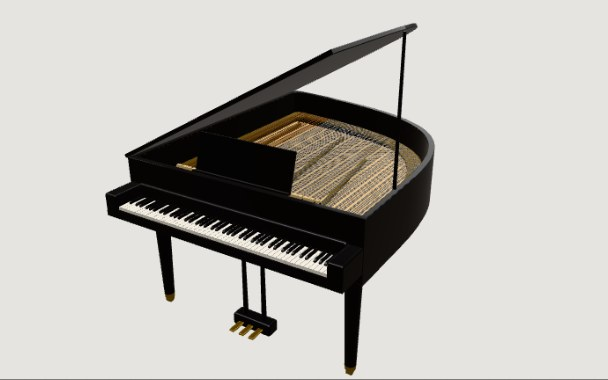
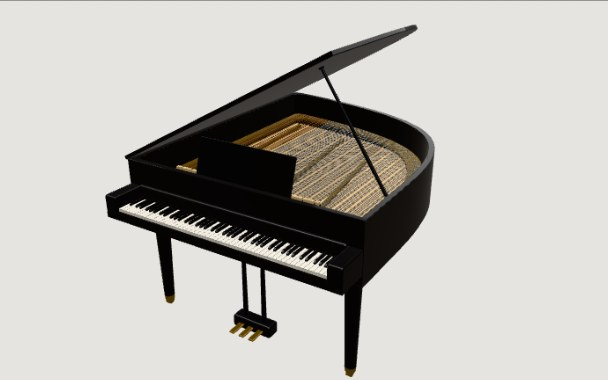
Grand Piano: clickable keys, prop stick meets the lid
Give the instanced meshes fixed bounds so raycasts can't be culled by
bounds computed before the instances were placed. Recompute where the
prop stick meets the tilted lid so it rests in a cup instead of floating,
seat it on a hinge block, and fold the music desk below the closed lid.

diff --git a/dimensions-ui/src/piano/Piano.jsx b/dimensions-ui/src/piano/Piano.jsx
@@ -91,25 +91,49 @@ const WHITE_W_KEY = 2.21
 const NO_DAMPER = KEYS.map((k) => k.midi > DAMPER_TOP)
 const naturalDecay = (midi) => Math.max(0.6, 6.5 - (midi - 21) * 0.065)
 
-// the prop stick, which follows the lid round so its tip stays under it
+// The prop stick, which follows the lid round so its tip stays under it.
+// Its tip sits in a cup CONTACT cm along the lid from the hinge (measured
+// along the tilted lid, so it's always on the lid however far it's open).
 const LID_OPEN = 0.5
 const HINGE_X = -HALF - 0.6
-const STICK = [HALF - 2.4, RIM_TOP - 0.8, -52] // pivot
-const STICK_TIP = 0.08
-const STICK_LEN = (RIM_TOP - STICK[1] + (STICK[0] - HINGE_X) * Math.tan(LID_OPEN)) / (Math.cos(STICK_TIP) + Math.sin(STICK_TIP) * Math.tan(LID_OPEN))
+const STICK = [HALF - 3.4, RIM_TOP - 1.1, -46] // pivot, on a hinge block inside the rim, so it folds under the lid
+const CONTACT = 122
+const STICK_LEN = Math.hypot(
+  STICK[0] - (HINGE_X + CONTACT * Math.cos(LID_OPEN)),
+  RIM_TOP + CONTACT * Math.sin(LID_OPEN) - STICK[1],
+)
 function stickAngle(lid) {
-  const lidY = (x) => RIM_TOP + (x - HINGE_X) * Math.tan(lid)
-  const f = (a) => STICK[1] + STICK_LEN * Math.cos(a) - lidY(STICK[0] - STICK_LEN * Math.sin(a))
-  if (f(0) <= 0) return 0
-  let lo = 0
-  let hi = Math.PI / 2
-  for (let i = 0; i < 30; i++) {
-    const m = (lo + hi) / 2
-    if (f(m) > 0) lo = m
-    else hi = m
+  // how far the stick's tip is above (+) or below (-) the lid at angle a
+  const f = (a) => STICK[1] + STICK_LEN * Math.cos(a) - (RIM_TOP + (STICK[0] - STICK_LEN * Math.sin(a) - HINGE_X) * Math.tan(lid))
+  // swing it up from folded flat until the tip meets the lid
+  const STEPS = 90
+  let prev = Math.PI / 2
+  let best = prev
+  let bestF = -Infinity
+  for (let i = 1; i <= STEPS; i++) {
+    const a = (Math.PI / 2) * (1 - i / STEPS)
+    const v = f(a)
+    if (v >= 0) {
+      let lo = a
+      let hi = prev
+      for (let k = 0; k < 24; k++) {
+        const m = (lo + hi) / 2
+        if (f(m) >= 0) lo = m
+        else hi = m
+      }
+      return hi
+    }
+    if (v > bestF) (bestF = v), (best = a)
+    prev = a
   }
-  return hi
+  // can't quite reach: as close as it gets
+  return best
 }
+// the cup on the lid's underside goes where the tip lands when it's open
+const CUP = (() => {
+  const a = stickAngle(LID_OPEN)
+  return [(STICK[0] - STICK_LEN * Math.sin(a) - HINGE_X) / Math.cos(LID_OPEN), 0]
+})()
 
 const DYN = [[16, 'ppp'], [33, 'pp'], [49, 'p'], [64, 'mp'], [80, 'mf'], [96, 'f'], [112, 'ff'], [128, 'fff']]
 export const dynamic = (v) => DYN.find(([m]) => v < m)[1]
@@ -274,6 +298,18 @@ const Piano = forwardRef(function Piano({ lacquerColor = '#0c0c0e', woodColor = 
 
   // static instances: strings and tuning pins
   const pinRef = useRef()
+  // Instanced parts move every frame, so three's cached bounds (worked out
+  // once, on the first raycast) can be stale; if the pointer was over the
+  // canvas before the first frame they'd say every key is at the origin and
+  // no click would ever land. Give them fixed bounds round the whole piano.
+  useEffect(() => {
+    const all = new THREE.Sphere(new THREE.Vector3(0, 70, -85), 190)
+    for (const r of [whiteRef, blackRef, headRef, shankRef, feltRef, dheadRef, stringRef, pinRef]) {
+      if (!r.current) continue
+      r.current.boundingSphere = all.clone()
+      r.current.boundingBox = null
+    }
+  }, [])
   useEffect(() => {
     const m = new THREE.Object3D()
     const col = new THREE.Color()
@@ -571,7 +607,7 @@ const Piano = forwardRef(function Piano({ lacquerColor = '#0c0c0e', woodColor = 
       <instancedMesh ref={blackRef} args={[geo.black, mats.black, BLACKS.length]} frustumCulled={false} castShadow {...keyEvents(BLACKS)} />
 
       {/* music desk, pivoting on its bottom edge */}
-      <group ref={deskRef} position={[0, RIM_TOP - 1.6, -(CASE_FRONT + 6)]}>
+      <group ref={deskRef} position={[0, RIM_TOP - 3.4, -(CASE_FRONT + 6)]}>
         <mesh geometry={geo.desk} material={mats.lacquer} position={[0, 10.5, 0]} castShadow />
         <mesh material={mats.lacquer} position={[0, 0.8, 1.6]} castShadow>
           <boxGeometry args={[56, 1.1, 2.8]} />
@@ -594,7 +630,14 @@ const Piano = forwardRef(function Piano({ lacquerColor = '#0c0c0e', woodColor = 
           onPointerOver={() => (document.body.style.cursor = 'pointer')}
           onPointerOut={() => (document.body.style.cursor = '')}
         />
+        {/* the cup the stick's tip sits in */}
+        <mesh material={mats.lacquer} position={[CUP[0], CUP[1] - 0.75, STICK[2]]}>
+          <cylinderGeometry args={[1.5, 1.2, 1.1, 16]} />
+        </mesh>
       </group>
+      <mesh material={mats.brass} position={[HALF - 3.1, RIM_TOP - 1.6, STICK[2]]}>
+        <boxGeometry args={[1.6, 1.8, 3.6]} />
+      </mesh>
       <group ref={stickRef} position={STICK}>
         <mesh material={mats.lacquer} position={[0, STICK_LEN / 2, 0]} castShadow>
           <cylinderGeometry args={[0.7, 0.9, STICK_LEN, 12]} />
